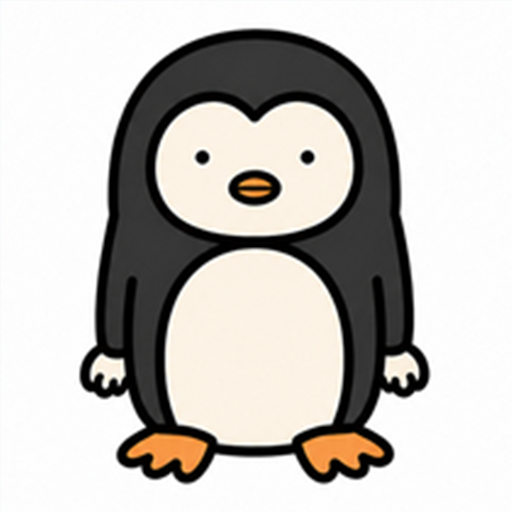
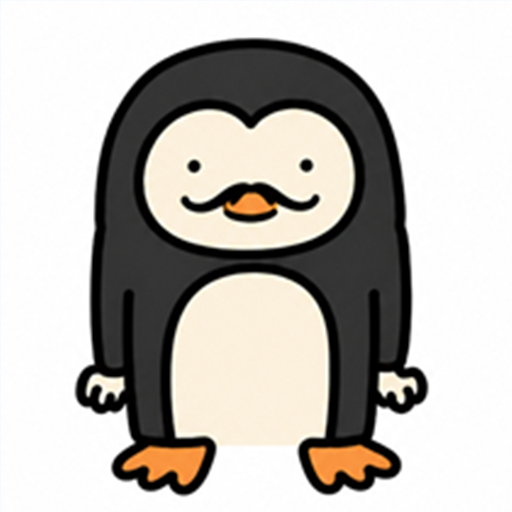
Restore original Pierre model

diff --git a/app/page.tsx b/app/page.tsx
@@ -9,8 +9,7 @@ const heads = [
 ];
 const things = ["1","2","4","5","6","7","8","9","10","11","12","13","14","15"];
 const colors = ["#232323", "#f6ead2", "#e8903d"];
-const baseCharacter = "/characters/base-pierre-v5.png";
-const mustacheTrait = "/characters/faces/face-mustache-v2.png";
+const baseCharacter = "/characters/base-pierre-original.png";
 const contractAddress = "9k5iJ5NAqeYagHVEha21vcWLzJPm4d2tnKGNeJq8pump";
 
 function loadImage(src: string) {
@@ -24,9 +23,8 @@ function loadImage(src: string) {
 
 export default function Home() {
   const canvasRef = useRef<HTMLCanvasElement>(null);
-  const [tab, setTab] = useState<"head" | "face" | "thing" | "text">("head");
+  const [tab, setTab] = useState<"head" | "thing" | "text">("head");
   const [head, setHead] = useState<string | null>(null);
-  const [mustache, setMustache] = useState(false);
   const [thing, setThing] = useState<string | null>(null);
   const [caption, setCaption] = useState("");
   const [ink, setInk] = useState("#000000");
@@ -42,7 +40,6 @@ export default function Home() {
     const base = await loadImage(baseCharacter);
     ctx.drawImage(base, 0, 0, 500, 500);
     if (head) ctx.drawImage(await loadImage(`/characters/heads-pierre-v3/head-${head}.png`), 0, 0, 500, 500);
-    if (mustache) ctx.drawImage(await loadImage(mustacheTrait), 0, 0, 500, 500);
     if (thing) ctx.drawImage(await loadImage(`/characters/things-pierre-v3/thing-${thing}.png`), 0, 0, 500, 500);
     if (caption.trim()) {
       ctx.font = "40px 'Courier New', Courier, monospace";
@@ -51,7 +48,7 @@ export default function Home() {
       ctx.fillStyle = ink;
       ctx.fillText(caption.trim().slice(0, 28), 250, 20, 455);
     }
-  }, [head, mustache, thing, caption, ink]);
+  }, [head, thing, caption, ink]);
 
   useEffect(() => { void render(); }, [render]);
 
@@ -79,10 +76,9 @@ export default function Home() {
     window.setTimeout(() => setContractCopied(false), 1400);
   };
 
-  const reset = () => { setHead(null); setMustache(false); setThing(null); setCaption(""); };
+  const reset = () => { setHead(null); setThing(null); setCaption(""); };
   const shuffle = () => {
     setHead(heads[Math.floor(Math.random() * heads.length)]);
-    setMustache(Math.random() >= 0.5);
     setThing(things[Math.floor(Math.random() * things.length)]);
   };
 
@@ -107,7 +103,7 @@ export default function Home() {
             <p className="eyebrow">YOUR TINY PORTRAIT STUDIO</p>
             <h2>Make Pierre <em>yours.</em></h2>
           </div>
-          <p className="intro-copy">Pick a look, hand him a prop, add a line.<br />Mustache optional. Charm inevitable.</p>
+          <p className="intro-copy">Pick a look, hand him a prop, add a line.<br />The mustache stays. Naturally.</p>
         </header>
 
         <button className="contract-strip" onClick={() => void copyContract()} aria-label="Copy Pierre contract address">
@@ -137,7 +133,6 @@ export default function Home() {
           </div>
           <nav aria-label="Customizer categories">
             <button className={tab === "head" ? "active" : ""} onClick={() => setTab("head")}>Head</button>
-            <button className={tab === "face" ? "active" : ""} onClick={() => setTab("face")}>Face</button>
             <button className={tab === "thing" ? "active" : ""} onClick={() => setTab("thing")}>Prop</button>
             <button className={tab === "text" ? "active" : ""} onClick={() => setTab("text")}>Text</button>
             <button className="shuffle" onClick={shuffle}>↻ Shuffle</button>
@@ -152,16 +147,6 @@ export default function Home() {
                   </span>
                 </button>
               ))}
-            </div>
-          )}
-          {tab === "face" && (
-            <div className="asset-grid">
-              <button className={mustache ? "selected" : ""} onClick={() => setMustache(!mustache)} aria-label="Toggle Pierre's pencil mustache">
-                <span className="trait-preview">
-                  <NextImage src={baseCharacter} alt="" fill sizes="140px" unoptimized />
-                  <NextImage src={mustacheTrait} alt="" fill sizes="140px" unoptimized />
-                </span>
-              </button>
             </div>
           )}
           {tab === "thing" && (

diff --git a/app/layout.tsx b/app/layout.tsx
@@ -14,9 +14,9 @@ export const metadata: Metadata = {
   title: "Pierre the Penguin — PFP Generator",
   description: "Dress up Pierre, add a caption, and download your own Pierre the Penguin PFP.",
   icons: {
-    icon: [{ url: "/favicon.png?v=4", type: "image/png", sizes: "512x512" }],
-    shortcut: "/favicon.png?v=4",
-    apple: "/favicon.png?v=4",
+    icon: [{ url: "/favicon.png?v=6", type: "image/png", sizes: "512x512" }],
+    shortcut: "/favicon.png?v=6",
+    apple: "/favicon.png?v=6",
   },
   openGraph: { title: "Pierre the Penguin", description: "Make your Pierre.", images: [{ url: "/og.png?v=5", width: 2172, height: 724, alt: "Pierre the Penguin on a crooked polar coast" }] },
   twitter: { card: "summary_large_image", title: "Pierre the Penguin", description: "Make your Pierre.", images: ["/og.png?v=5"] },

diff --git a/scripts/make-pierre-gif.py b/scripts/make-pierre-gif.py
@@ -24,15 +24,12 @@ def layer(path: Path) -> Image.Image:
     return Image.open(path).convert("RGBA")
 
 
-base = layer(CHARACTERS / "base-pierre-v5.png")
-mustache = layer(CHARACTERS / "faces" / "face-mustache-v2.png")
+base = layer(CHARACTERS / "base-pierre-original.png")
 frames: list[Image.Image] = []
 
-for head_id, thing_id, has_mustache in COMBINATIONS:
+for head_id, thing_id, _has_mustache in COMBINATIONS:
     frame = base.copy()
     frame.alpha_composite(layer(CHARACTERS / "heads-pierre-v3" / f"head-{head_id}.png"))
-    if has_mustache:
-        frame.alpha_composite(mustache)
     frame.alpha_composite(layer(CHARACTERS / "things-pierre-v3" / f"thing-{thing_id}.png"))
     frames.append(frame.convert("RGB"))
 

diff --git a/README.md b/README.md
@@ -1,8 +1,7 @@
 # Pierre the Penguin
 
-A hand-drawn PFP generator for Pierre the Penguin. Mix head styles, toggle his
-tiny pencil mustache, choose a prop, add a caption, then copy or download the
-finished 500x500 PNG.
+A hand-drawn PFP generator for Pierre the Penguin. Mix head styles and props,
+add a caption, then copy or download the finished 500x500 PNG.
 
 Pierre deliberately keeps the original character canvas, pose, and attachment
 points so every layered generator asset remains aligned.
@@ -27,11 +26,10 @@ npm run build
 
 ## Character asset contract
 
-- Base: `public/characters/base-pierre-v5.png` (500x500)
+- Base: `public/characters/base-pierre-original.png` (500x500)
 - Head layers: `public/characters/heads-pierre-v3/` (500x500 transparent PNGs)
-- Face layers: `public/characters/faces/` (500x500 transparent PNGs)
 - Prop layers: `public/characters/things-pierre-v3/` (500x500 transparent PNGs)
-- Layer order: Pierre base -> head -> face -> prop -> caption
+- Layer order: Pierre base -> head -> prop -> caption
 
 Keep future layers on the same 500x500 canvas without moving Pierre's crown,
 face, hands, or feet.
